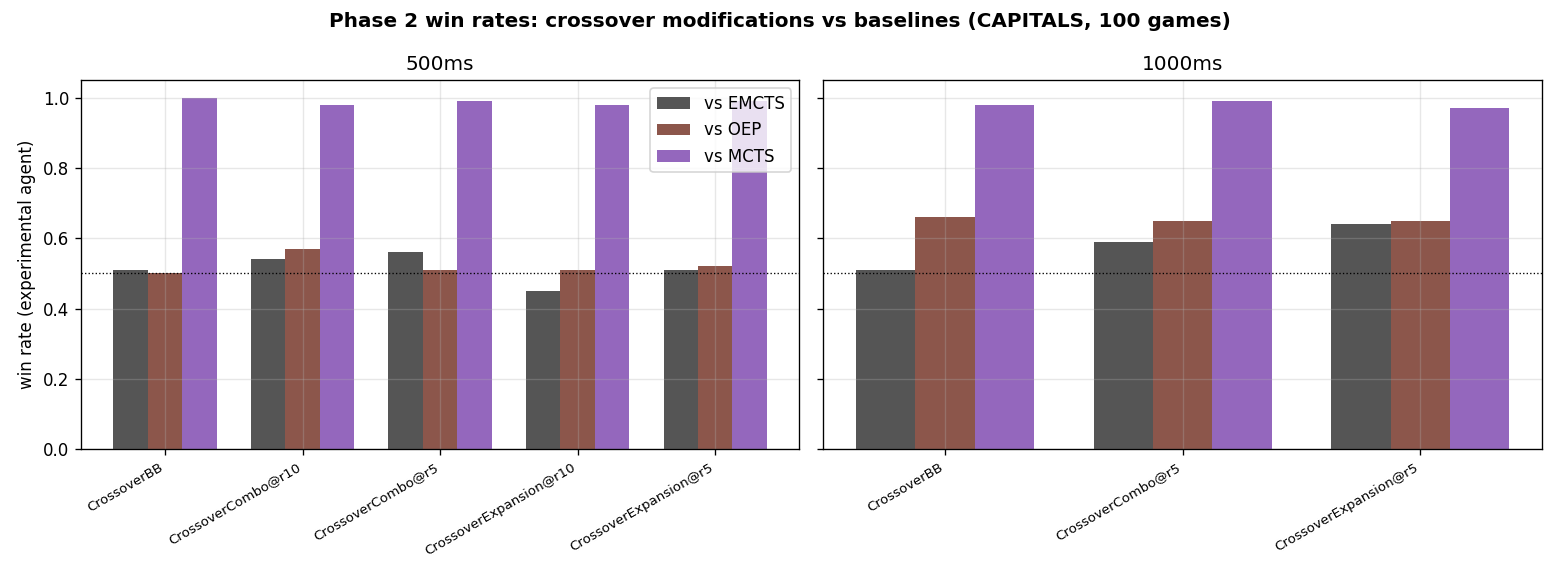
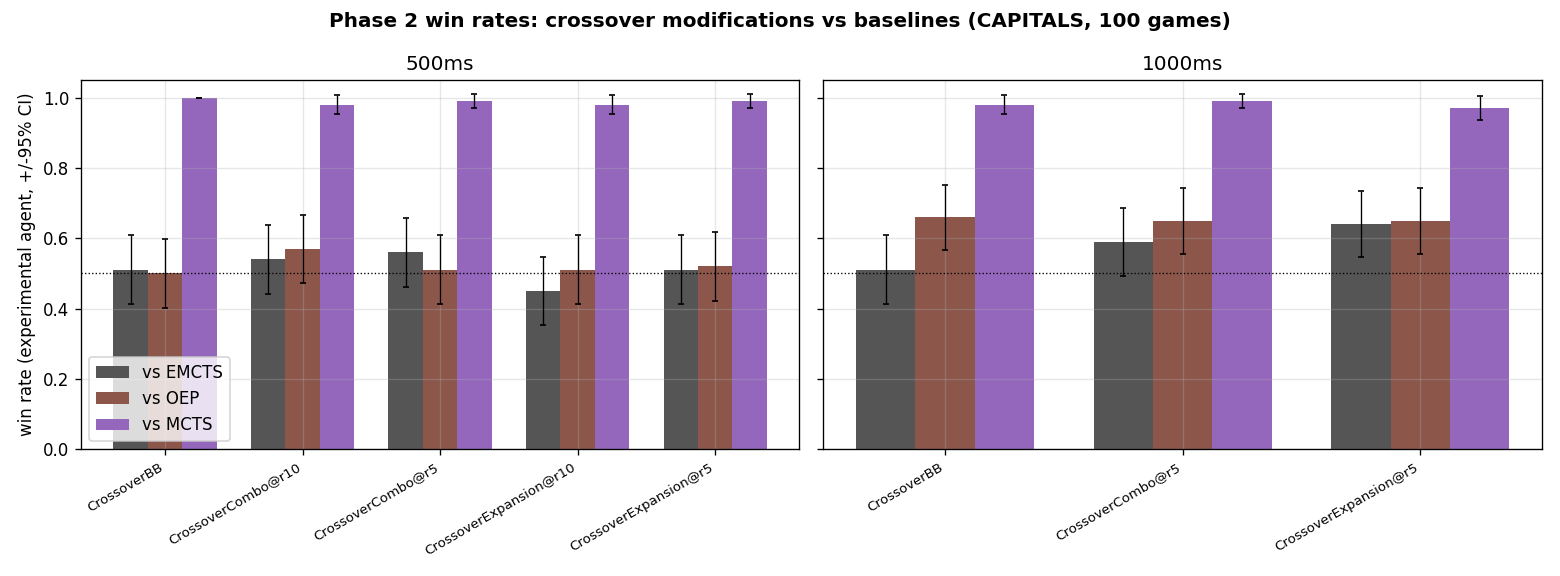
Add gain-over-initial trajectories, CI win rates, score-over-turns; reflect on ranking consistency
New figures:
- fig11 / fig12: family & ratio trajectories as RAW heuristic gain over the greedy initial
  (BestSequenceValue - InitialSequenceValue), in absolute units. Fairer than %-over-baseline,
  which over-represents a weak agent's small gain. Shows the within-turn gain barely
  discriminates ratios/agents (it is ~constant; agents differ in baseline level).
- fig13: in-game score over the game RELATIVE to EMCTS per family agent (amplifies the small
  score gaps; Expansion/Combo climb above EMCTS at 5000ms, BB sits at/below).
- fig4: now drawn with 95% CI error bars so significance is explicit.

RESULTS.md: new section "Why the ranking is not monotone across graphs" - the graphs measure
different quantities; %-normalisation can invert the order; absolute value is endogenous; turn 0
is degenerate (all agents identical) and by turn 3 boards have already diverged, so Phase 3 has no
clean board-controlled discriminating turn; Phase 3 is unpaired/high-variance. The clean ranking is
the Phase-2 head-to-head win rate (paired, controls for board). Across the trustworthy views the
consistent ordering is Expansion >= Combo > EMCTS ~ BB, widening with budget.

diff --git a/Tribes-master/analysis/analyze.py b/Tribes-master/analysis/analyze.py
@@ -237,6 +237,70 @@ def fig_family_value_trajectory():
     fig.suptitle('Overall sequence value across the 20 bridge burns (Phase 3, ratio 5)', fontweight='bold')
     fig.tight_layout(); fig.savefig(FIGS/'fig10_family_value_trajectory.png'); plt.close(fig)
 
+def burn_diff_trajectory(df):
+    """Mean RAW heuristic-value gain over the turn's greedy initial sequence, per bridge-burn phase:
+    mean over turns of (BestSequenceValue@phase - InitialSequenceValue). In absolute heuristic units,
+    so a weak agent's small gain is not inflated the way a %-over-initial would inflate it."""
+    piv  = df.pivot_table(index=['GameId','TurnNumber'], columns='BridgeBurningPhaseNumber',
+                          values='BestSequenceValue')
+    init = df.drop_duplicates(['GameId','TurnNumber']).set_index(['GameId','TurnNumber'])['InitialSequenceValue']
+    return piv.sub(init.reindex(piv.index), axis=0).mean()
+
+def fig_family_diff_trajectory():
+    """Family trajectory as RAW gain over the greedy initial (companion to fig 2/fig 10). Fairer than
+    the %-view: it does not divide by the (agent-dependent) baseline, so a low-value agent's small
+    absolute gain is not over-represented."""
+    fig, axes = plt.subplots(1, 3, figsize=(15,4.5), sharey=True)
+    for ax,lv in zip(axes,LEVELS):
+        for nm,col,d in family_frames(lv):
+            m = burn_diff_trajectory(d)
+            ax.plot(m.index, m.values, marker='.', color=col, label=nm)
+        ax.set_title(lv); ax.set_xlabel('bridge-burn phase (1..20)')
+    axes[0].set_ylabel('mean (BestSequenceValue - InitialSequenceValue)\n(raw heuristic units, over all turns)')
+    axes[0].legend(fontsize=8)
+    fig.suptitle('Within-turn value gained over the greedy initial (Phase 3, ratio 5)', fontweight='bold')
+    fig.tight_layout(); fig.savefig(FIGS/'fig11_family_gain_over_initial.png'); plt.close(fig)
+
+def fig_expansion_ratio_diff():
+    """Ratio trajectory as RAW gain over the greedy initial (companion to fig 8/fig 9). Shows that the
+    within-turn search gain is nearly identical across ratios - the ratios differ in baseline level
+    (cumulative board value), not in how much a single turn's search improves over greedy."""
+    ratios = [2, 5, 10, 15, 20]
+    cmap = plt.cm.viridis(np.linspace(0, 0.92, len(ratios)))
+    fig, axes = plt.subplots(1, 3, figsize=(15,4.5), sharey=True)
+    for ax,lv in zip(axes,LEVELS):
+        rtj = pd.read_csv(BASE/f'phase3/Phase3_ratio_trajectory_{lv}.csv')
+        rtj['RatioNum'] = pd.to_numeric(rtj['Ratio'], errors='coerce')
+        for r,col in zip(ratios, cmap):
+            m = burn_diff_trajectory(rtj[(rtj.AgentName=='CrossoverExpansion') & (rtj.RatioNum==r)])
+            lab = f'ratio {r}' + (' (best)' if r==BEST_RATIO[lv] else '')
+            ax.plot(m.index, m.values, marker='.', color=col,
+                    lw=2.4 if r==BEST_RATIO[lv] else 1.3, label=lab)
+        ax.set_title(lv); ax.set_xlabel('bridge-burn phase (1..20)')
+    axes[0].set_ylabel('mean (BestSequenceValue - InitialSequenceValue)\n(raw heuristic units, over all turns)')
+    axes[0].legend(title='mutationExpansionRatio\n(higher = less crossover)', fontsize=8)
+    fig.suptitle('Within-turn value gained over the greedy initial, by crossover ratio (Phase 3)', fontweight='bold')
+    fig.tight_layout(); fig.savefig(FIGS/'fig12_expansion_ratio_gain_over_initial.png'); plt.close(fig)
+
+def fig_score_over_turns():
+    """In-game score over the game RELATIVE to EMCTS (mean agent score / mean EMCTS score at each game
+    turn). Amplifies the small score gaps and shows WHEN each modification pulls ahead; this is a Phase-3
+    in-game-outcome view, so it should track the Phase-2 ranking (Expansion up, BB flat/down)."""
+    fig, axes = plt.subplots(1, 3, figsize=(15,4.5), sharey=True)
+    for ax,lv in zip(axes,LEVELS):
+        fr = family_frames(lv)
+        base = fr[0][2].drop_duplicates(['GameId','TurnNumber']).groupby('TurnNumber')['ScoreAtTurnStart'].mean()
+        for nm,col,d in fr:
+            m = d.drop_duplicates(['GameId','TurnNumber']).groupby('TurnNumber')['ScoreAtTurnStart'].mean()
+            rel = m / base.reindex(m.index)
+            ax.plot(rel.index, rel.values, color=col, label=nm, lw=1.8)
+        ax.axhline(1.0, color='k', lw=0.8, ls=':')
+        ax.set_title(lv); ax.set_xlabel('game turn')
+    axes[0].set_ylabel('mean in-game score relative to EMCTS')
+    axes[0].legend(fontsize=8)
+    fig.suptitle('In-game score over the game, relative to EMCTS (Phase 3, ratio 5)', fontweight='bold')
+    fig.tight_layout(); fig.savefig(FIGS/'fig13_score_over_turns.png'); plt.close(fig)
+
 def fig_expansion_ratio_trajectory():
     """Within-turn bridge-burn trajectory of CrossoverExpansion alone, one line per tested ratio.
     Higher ratio = less crossover. Shows whether the crossover rate changes search-progress shape."""
@@ -329,14 +393,17 @@ def fig_winrates():
     fig, axes = plt.subplots(1, 2, figsize=(13,4.8), sharey=True)
     for ax,lv in zip(axes,['500ms','1000ms']):
         exp=load_phase2(lv)
-        wr = exp.groupby(['Config','Base'])['Won'].mean().unstack('Base')
+        agg = exp.groupby(['Config','Base'])['Won'].agg(['mean','count'])
+        wr = agg['mean'].unstack('Base'); n = agg['count'].unstack('Base')
+        se = (wr*(1-wr)/n)**0.5                       # binomial SE of the win rate
         cfgs=list(wr.index); x=np.arange(len(cfgs)); w=0.25
         for j,b in enumerate(bases):
-            ax.bar(x+(j-1)*w, wr[b].values, w, label=f'vs {b}', color=C[b])
+            ax.bar(x+(j-1)*w, wr[b].values, w, yerr=1.96*se[b].values, capsize=2,
+                   error_kw=dict(lw=0.8), label=f'vs {b}', color=C[b])
         ax.axhline(0.5, color='k', lw=0.8, ls=':')
         ax.set_xticks(x); ax.set_xticklabels(cfgs, rotation=30, ha='right', fontsize=8)
         ax.set_title(lv); ax.set_ylim(0,1.05)
-    axes[0].set_ylabel('win rate (experimental agent)'); axes[0].legend()
+    axes[0].set_ylabel('win rate (experimental agent, +/-95% CI)'); axes[0].legend()
     fig.suptitle('Phase 2 win rates: crossover modifications vs baselines (CAPITALS, 100 games)', fontweight='bold')
     fig.tight_layout(); fig.savefig(FIGS/'fig4_winrates.png'); plt.close(fig)
 
@@ -399,6 +466,7 @@ if __name__ == '__main__':
     print(t4.to_string(index=False)); print(); print(wr.to_string(index=False))
     print('\nWriting figures...')
     fig_ratio_sweep(); fig_within_turn_trajectory(); fig_family_value_trajectory()
-    fig_expansion_ratio_trajectory(); fig_expansion_ratio_value(); fig_burn_crossover_benefit()
+    fig_family_diff_trajectory(); fig_expansion_ratio_trajectory(); fig_expansion_ratio_value()
+    fig_expansion_ratio_diff(); fig_score_over_turns(); fig_burn_crossover_benefit()
     fig_winrates(); fig_value_vs_score(); fig_efficiency(); fig_final_score_outcome()
     print('Done. Tables -> analysis/tables/  Figures -> analysis/figures/')

diff --git a/Tribes-master/analysis/RESULTS.md b/Tribes-master/analysis/RESULTS.md
@@ -147,6 +147,12 @@ bridge-burn-crossover mechanism (the ratio is fixed, not mixed into the comparis
   ranking — e.g. CrossoverBB sits highest at 500 ms but lowest at 5000 ms. The comparable quantity is the
   *slope* (within-turn search gain), which is ~constant across agents (≈ 85 / 110 / 170 units), again
   showing the agents differ mainly in cumulative board value, not in per-turn search gain.
+- **`fig11_family_gain_over_initial.png` (raw gain over the greedy initial):** the fairest of the three
+  views — it plots `BestSequenceValue − InitialSequenceValue` in raw heuristic units, so it neither
+  divides by an agent-dependent baseline (the %-view's flaw, which over-represents a weak agent's small
+  gain) nor mixes in the endogenous baseline level (the absolute view). It shows the agents **bunched** at
+  500 ms (no real hierarchy) and only separating at 5000 ms, where **Combo > Expansion > EMCTS ≈ BB** —
+  i.e. the crossover-expansion's within-turn search edge over greedy emerges only with a large budget.
 
 ### 5b. Trajectory by crossover-expansion ratio — `fig8` (% gain) vs `fig9` (absolute value)
 Two views of **CrossoverExpansion alone, one line per ratio**:
@@ -157,6 +163,12 @@ Two views of **CrossoverExpansion alone, one line per ratio**:
 - **`fig9_expansion_ratio_value.png` (absolute BestSequenceValue):** the ratios separate into clear bands,
   the best ratio (bold) is on top in every panel, and at 5000 ms the inverted-U is unmistakable
   (ratio 5 > 10 > 15 > {2, 20}). This matches the sweep (#1).
+
+A third view, **`fig12_expansion_ratio_gain_over_initial.png` (raw gain over the greedy initial)**, makes
+the mechanism explicit: the within-turn gain curves for all five ratios nearly **coincide** (≈ 85 / 110 /
+170 units by budget, with only a small high-budget edge for the more-crossover ratios). The ratios differ
+in *baseline level*, not in how much a single turn's search improves on greedy — which is the cleanest
+statement of why a %-over-baseline plot cannot rank them.
 
 **Why the %-over-baseline view is misleading for ranking ratios.** One might expect the greedy initial
 sequence value to be identical across ratios (greedy init is ratio-independent *for a fixed board*).
@@ -187,6 +199,61 @@ efficiently heuristic value converts to score. This validates the SIMPLE heurist
 proxy and justifies selecting the ratio on `FinalSequenceValue`.
 
 ---
+
+## Why the ranking is not monotone across graphs — and which representation to trust
+
+A fair question is why CrossoverBB looks best on one graph, Expansion on another, and Combo on a third,
+with no single hierarchy holding everywhere. The reason is that **the graphs measure different quantities,
+and most Phase-3 search-internal metrics are confounded.** Concretely:
+
+1. **The graphs answer different questions.** Within-turn trajectories (figs 2, 8, 11, 12) measure how much
+   one turn's search improves; the sweep / absolute-value graphs (figs 1, 9, 10) measure the cumulative
+   board value an agent reaches; the win-rate (fig 4) measures adversarial outcome. These are correlated
+   but not identical, so their rankings need not coincide.
+
+2. **Normalisation flips the order.** Because the within-turn search gain is ~constant across agents/ratios
+   while the baseline (greedy initial / burn-1 value) varies and tracks board strength, a %-over-baseline
+   plot divides out the signal and can *invert* the ranking (ratio 2 "wins" fig 8 but loses fig 9). The
+   raw-gain view (figs 11, 12) is the honest middle ground and shows the within-turn gain barely
+   discriminates at all.
+
+3. **Absolute value is endogenous.** A stronger agent builds a richer board, which raises both its greedy
+   initial and its final value — so absolute heuristic-value comparisons across agents partly measure
+   "who already had the better board," not "who searches better."
+
+4. **There is no clean board-controlled turn in Phase 3.** The map seed is fixed, so turn 0 is identical
+   for everyone — but it is **degenerate**: every agent and RNG seed finds the same sequence (130 → 271,
+   zero variance), and turns 1–2 stay degenerate too. By turn 3, when search outcomes finally differ, the
+   boards have *already* diverged (initial-value spread ≈ 100). So the only board-controlled turns carry no
+   signal, and every discriminating turn is confounded. This is the core reason Phase-3 internals cannot
+   cleanly rank the agents.
+
+5. **Phase 3 is unpaired and high-variance.** Each agent plays its own game vs a passive opponent, so the
+   per-game `FinalScore` carries ±540–1270 (95% CI) — wide enough that the agent means overlap. An
+   isolated, high-variance, unpaired design simply cannot resolve a few-percent gap.
+
+**The representation that is clean *by construction* is the Phase-2 head-to-head win rate (fig 4).** There
+the two agents share a single board and compete directly, so win/loss controls for board variance, and 100
+paired games give it the power Phase 3 lacks. That is why it shows a clear, significant result
+(Expansion@5 beats EMCTS 0.64 at 1000 ms, CI excludes 0.5) where the Phase-3 graphs cannot.
+
+**What is consistent across the trustworthy representations.** Reading only the views that aren't
+confounded — Phase-2 win rate (fig 4), and the Phase-3 *in-game outcome* views (FinalScore fig 7, the
+relative-score trajectory **`fig13_score_over_turns.png`**, and the raw within-turn gain fig 11 at the
+largest budget) — they agree directionally:
+
+> **Expansion ≳ Combo > EMCTS ≈ BB, with the gap widening as the budget grows.**
+
+fig 13 shows this emerging: at 5000 ms Expansion and Combo climb to ~1.05–1.10× EMCTS's score over the
+game while BB sits at/below 1.0; at 500 ms everything is noise around 1.0 (matching fig 4's coin-flips).
+The link between the search-internal and outcome views is fig 5: heuristic value converts to score
+agent-independently, so a modification helps by accruing *more value over the game*, which the small,
+~constant per-turn search deltas under-detect — but the cumulative win rate captures.
+
+**Practical takeaway for the thesis:** rank the agents on the **Phase-2 win rate** (clean, paired,
+significant); use the Phase-3 graphs to explain the *mechanism* (recombination quality, ratio sweet spot,
+burn-crossover being inert), not to rank. Avoid %-over-baseline trajectories for ranking; prefer raw-gain
+(fig 11/12) or absolute (fig 9/10) with the endogeneity caveat stated.
 
 ## Conclusions on the two modifications
 
